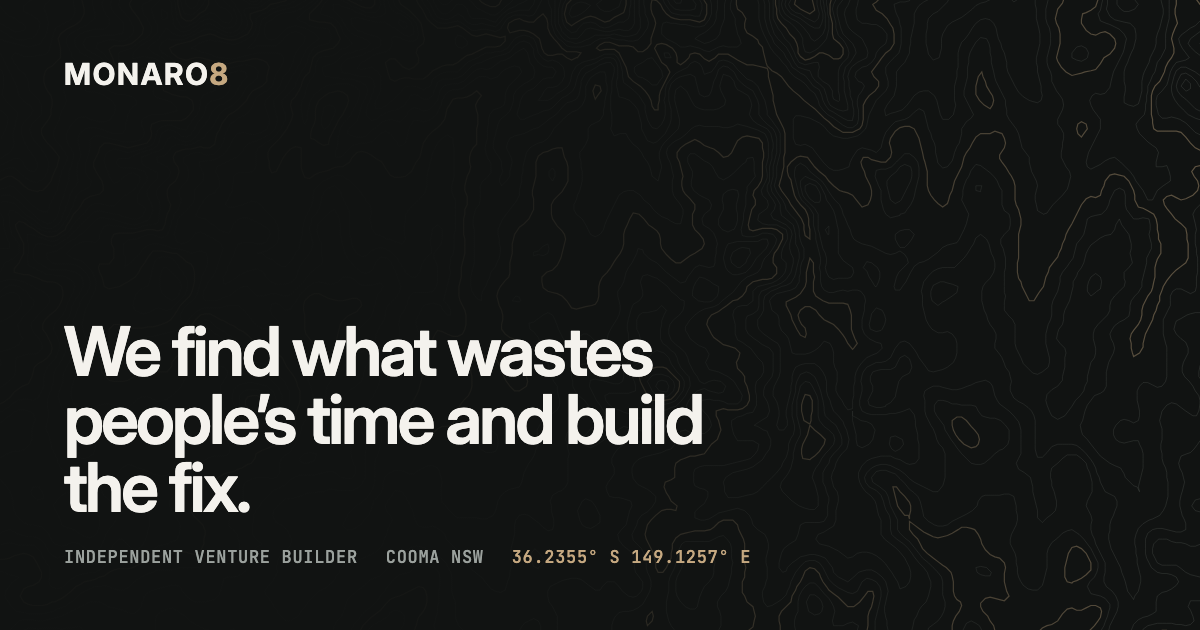
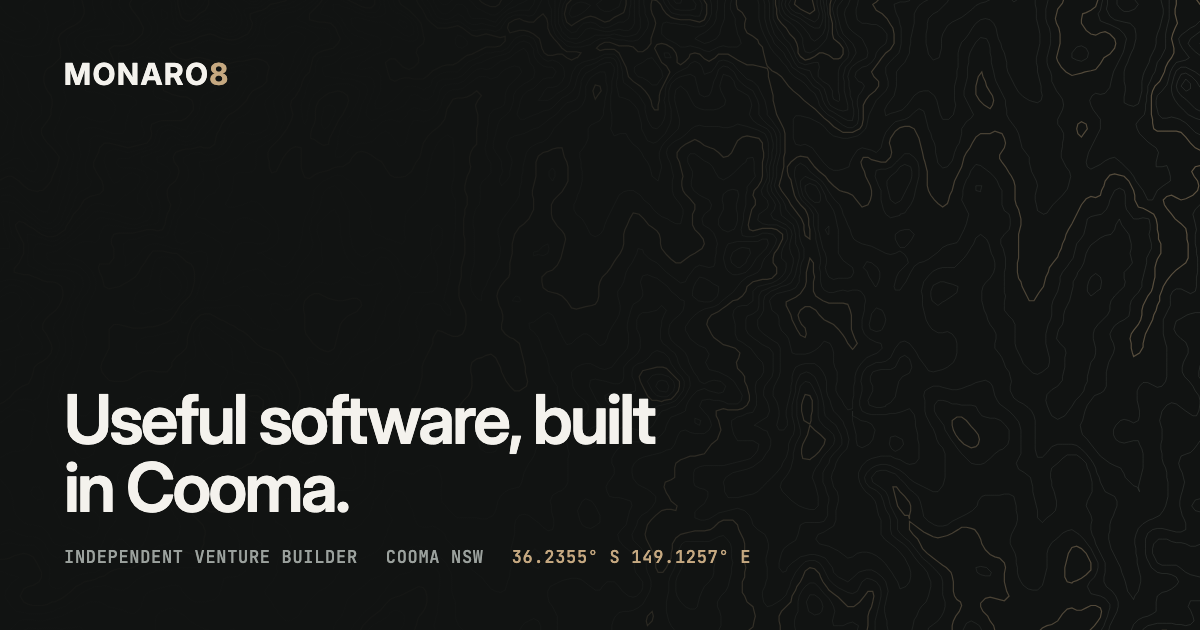
Home headline: Useful software, built in Cooma.

Changed region(s): [[0.0308, 0.5127, 0.5858, 0.8143]]

diff --git a/index.html b/index.html
@@ -216,7 +216,7 @@
     <div class="contours contours--dark" data-contours></div>
     <div class="wrap">
       <div>
-        <h1 id="hero-title">We find what wastes people’s time and build the&nbsp;fix.</h1>
+        <h1 id="hero-title">Useful software, built in&nbsp;Cooma.</h1>
         <p class="hero-lede">MONARO8 builds and runs its own web projects out of Cooma. AI tools let a small outfit build what used to take a big team, and keep the price honest. Five so far: four live and one in early access.</p>
         <div class="hero-actions">
           <a class="btn btn-gold" href="#ventures">See the ventures <span class="arr"><svg class="ico" viewBox="0 0 16 16" aria-hidden="true"><path d="M8 2v11M4 9l4 4 4-4"/></svg></span></a>
